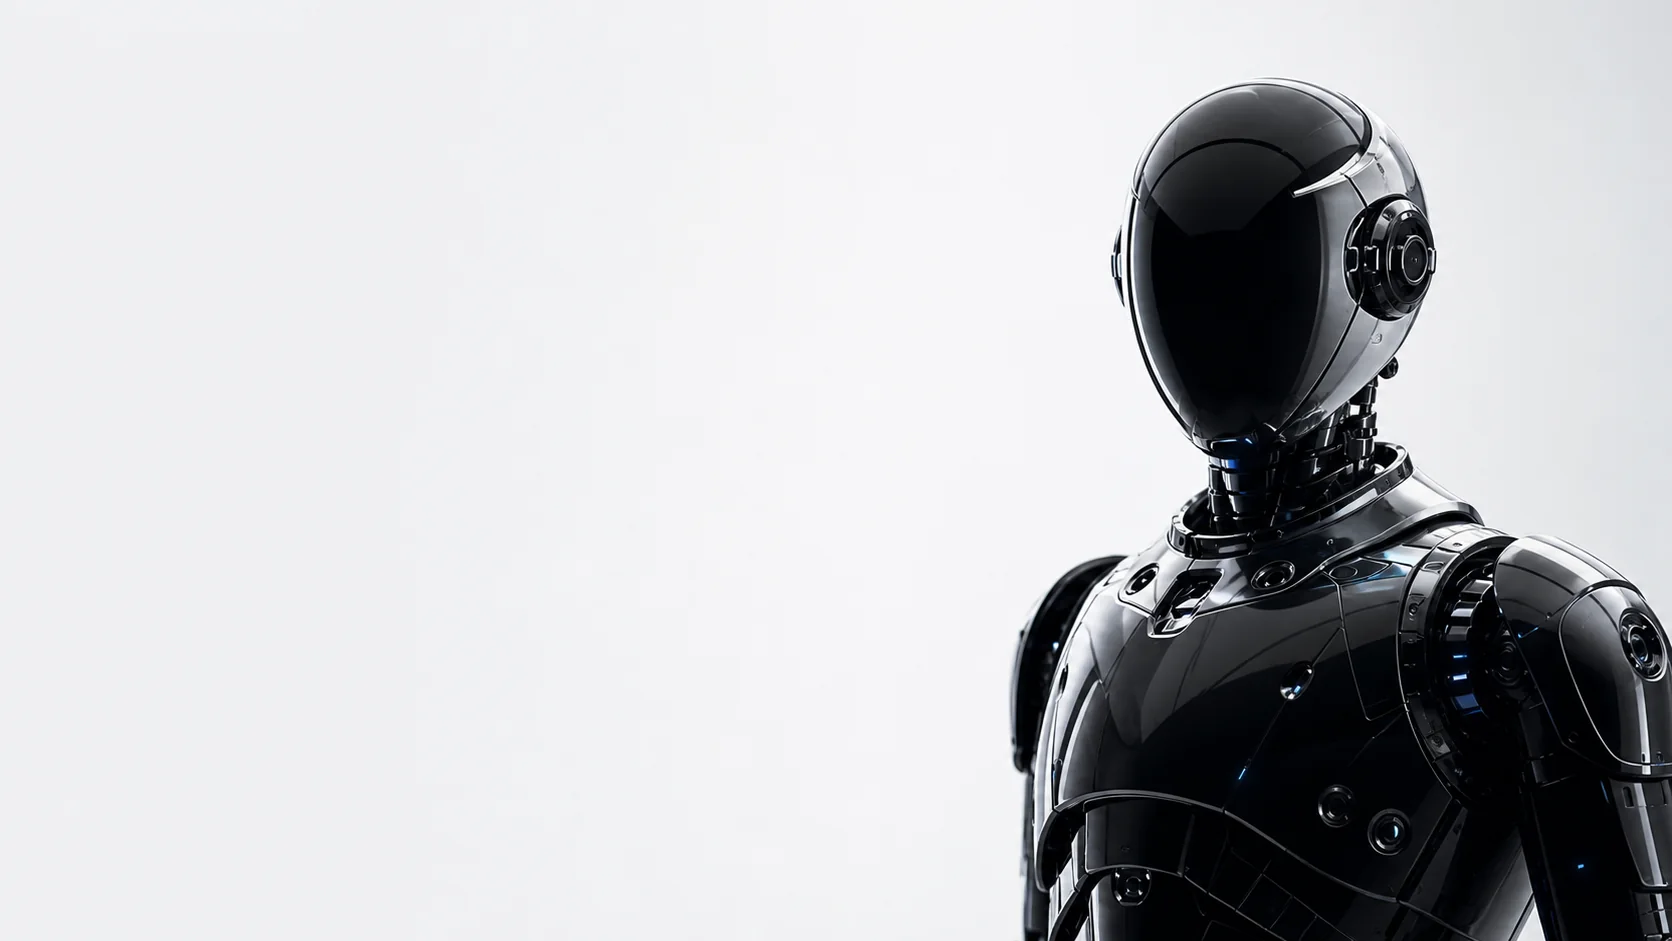
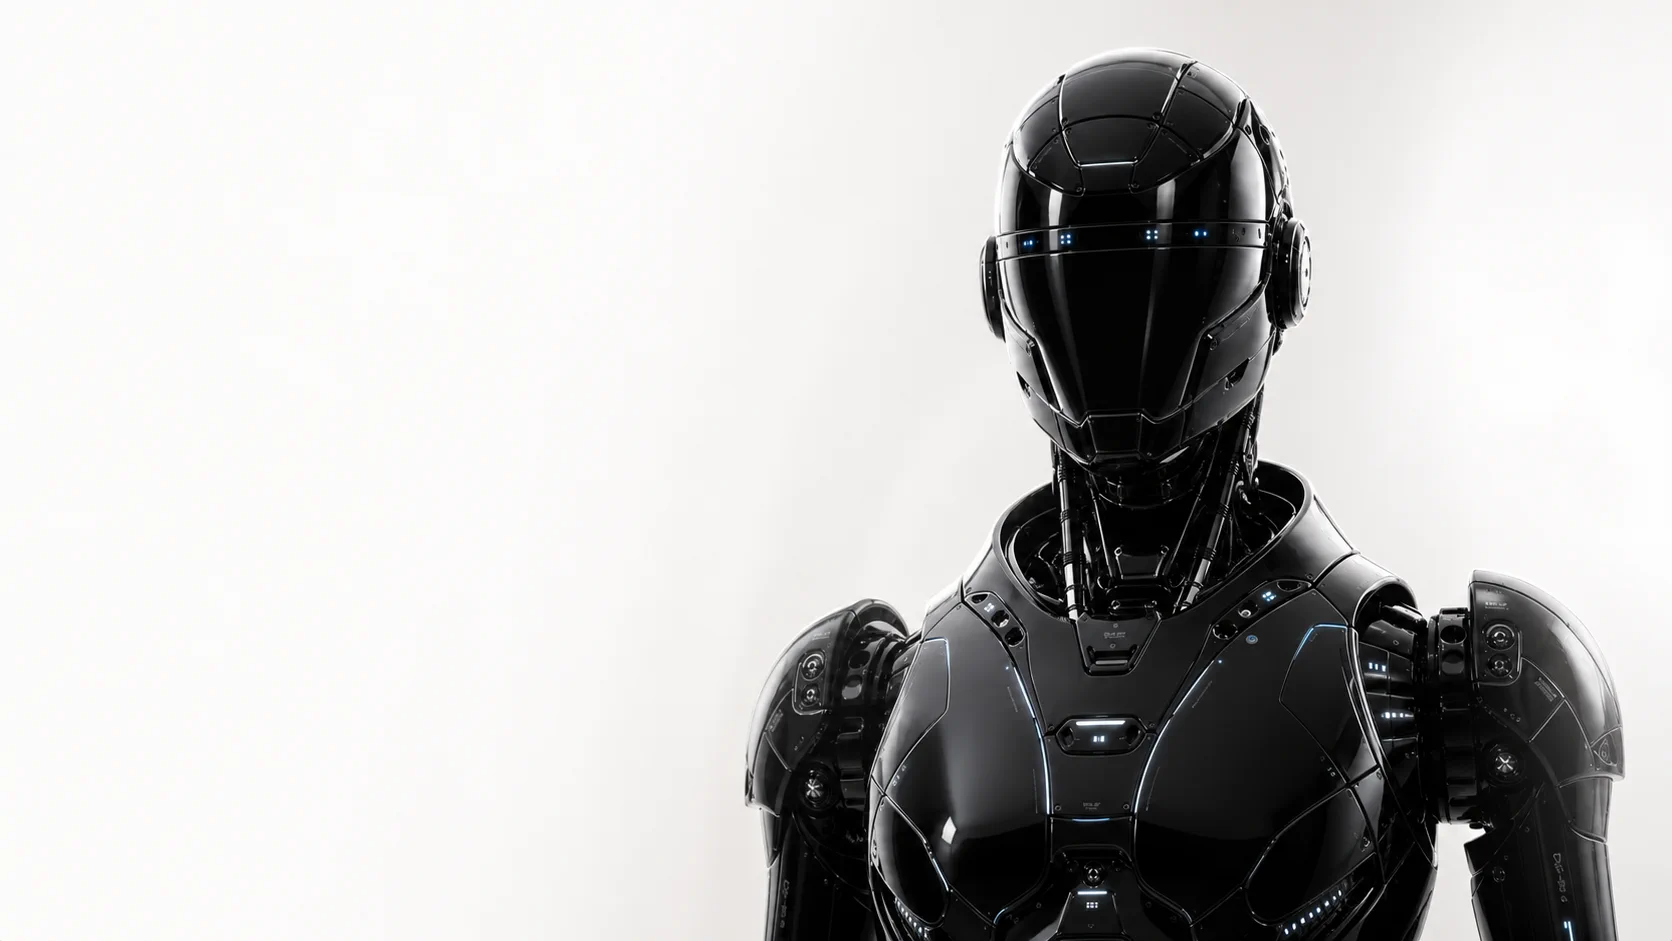
feat(ui): refine luxury robot visual language

Changed region(s): [[0.4354, 0.0, 1.0, 1.0]]

diff --git a/src/web-ui/src/app/scenes/agents/AgentsScene.minimal.scss b/src/web-ui/src/app/scenes/agents/AgentsScene.minimal.scss
@@ -7,31 +7,57 @@
     line-height: var(--workspace-line-height-control);
 
     .gallery-page-header {
-      min-height: 52px;
+      position: relative;
+      top: auto;
+      z-index: 0;
+      min-height: 208px;
+      align-items: flex-start;
       flex-direction: row;
       flex-wrap: nowrap;
-      padding: var(--workspace-space-2) var(--workspace-space-4);
+      overflow: hidden;
+      margin-top: var(--workspace-space-3);
+      padding: var(--workspace-space-6);
+      border: 1px solid var(--workspace-border-subtle);
+      border-radius: var(--workspace-radius-panel);
+      background-color: var(--workspace-surface-panel);
+      background-image: url('/visuals/void-agents-hero.webp');
+      background-position: center;
+      background-repeat: no-repeat;
+      background-size: cover;
+      backdrop-filter: none;
+      -webkit-backdrop-filter: none;
     }
 
     .gallery-page-header__identity {
       display: flex;
-      align-items: center;
-      gap: var(--workspace-space-3);
+      flex-direction: column;
+      align-items: flex-start;
+      gap: var(--workspace-space-2);
       min-width: 0;
+      max-width: min(48%, 520px);
     }
 
     .gallery-page-header__title {
       flex: 0 0 auto;
       margin: 0;
+      color: var(--workspace-text-primary);
+      font-size: clamp(28px, 3.2vw, 42px);
+      font-weight: var(--workspace-font-weight-medium);
+      line-height: 1.05;
+      letter-spacing: -0.04em;
     }
 
     .gallery-page-header__subtitle {
-      display: none;
+      display: block;
+      max-width: 420px;
+      color: var(--workspace-text-secondary);
+      font-size: var(--workspace-font-size-label);
+      line-height: var(--workspace-line-height-control);
     }
 
     .gallery-page-header__extra {
       min-width: 0;
-      margin: 0;
+      margin-top: var(--workspace-space-3);
     }
 
     .gallery-anchor-bar {
@@ -56,7 +82,9 @@
     }
 
     .gallery-page-header__actions {
-      position: relative;
+      position: absolute;
+      top: var(--workspace-space-3);
+      right: var(--workspace-space-3);
       flex: 0 0 var(--workspace-icon-target);
       width: var(--workspace-icon-target);
       height: var(--workspace-icon-target);
@@ -86,8 +114,8 @@
       gap: var(--workspace-space-1);
       padding: 0;
       color: var(--workspace-text-muted);
-      background: transparent;
-      border: 1px solid transparent;
+      background: var(--workspace-surface-panel);
+      border: 1px solid var(--workspace-border-subtle);
       border-radius: var(--workspace-radius-control);
       box-shadow: none;
       transition:
@@ -423,12 +451,16 @@
   @media (max-width: 900px) {
     .void-ui--minimal .void-agents-scene {
       .gallery-page-header {
-        min-height: 48px;
+        width: calc(100% - (2 * var(--workspace-space-3)));
+        min-height: 168px;
         gap: var(--workspace-space-2);
-        padding-inline: var(--workspace-space-3);
+        margin-inline: var(--workspace-space-3);
+        padding: var(--workspace-space-4);
+        background-position: 58% center;
       }
 
       .gallery-page-header__identity {
+        max-width: 56%;
         gap: var(--workspace-space-2);
       }
 
@@ -457,10 +489,17 @@
 
   @media (max-width: 560px) {
     .void-ui--minimal .void-agents-scene {
-      .gallery-page-header__title {
-        font-size: var(--workspace-font-size-label);
+      .gallery-page-header {
+        min-height: 124px;
+        background-position: 66% center;
       }
 
+      .gallery-page-header__title {
+        max-width: 180px;
+        font-size: 22px;
+      }
+
+      .gallery-page-header__subtitle,
       .gallery-anchor-bar {
         display: none;
       }

diff --git a/src/web-ui/src/app/scenes/skills/SkillsScene.minimal.scss b/src/web-ui/src/app/scenes/skills/SkillsScene.minimal.scss
@@ -6,14 +6,29 @@
     background: var(--workspace-surface-canvas);
 
     .skills-tabs-bar {
-      min-height: var(--workspace-topbar-height);
-      padding: 0 var(--workspace-space-3);
-      border-bottom: 1px solid var(--workspace-border-subtle);
-      background: var(--workspace-surface-panel);
+      position: relative;
+      min-height: 180px;
+      align-items: flex-end;
+      margin: var(--workspace-space-3) var(--workspace-space-3) 0;
+      padding: var(--workspace-space-3) var(--workspace-space-4);
+      overflow: hidden;
+      border: 1px solid var(--workspace-border-subtle);
+      border-radius: var(--workspace-radius-panel);
+      background-color: var(--workspace-surface-panel);
+      background-image: url('/visuals/void-skills-hero.webp');
+      background-position: center;
+      background-repeat: no-repeat;
+      background-size: cover;
     }
 
     .skills-tabs-bar__tabs {
+      position: relative;
+      z-index: 1;
       gap: 2px;
+      padding: 2px;
+      border: 1px solid var(--workspace-border-subtle);
+      border-radius: var(--workspace-radius-control);
+      background: var(--workspace-surface-panel);
     }
 
     .skills-tabs-bar__divider {
@@ -813,6 +828,11 @@
 
   @media (max-width: 900px) {
     .void-ui--minimal .void-skills-scene {
+      .skills-tabs-bar {
+        min-height: 132px;
+        background-position: 58% center;
+      }
+
       .skills-installed {
         flex-direction: column;
       }
@@ -864,6 +884,13 @@
 
   @media (max-width: 520px) {
     .void-ui--minimal .void-skills-scene {
+      .skills-tabs-bar {
+        min-height: 92px;
+        margin-inline: var(--workspace-space-2);
+        padding: var(--workspace-space-2);
+        background-position: 68% center;
+      }
+
       .skills-main__toolbar-search {
         flex-basis: 100%;
       }

diff --git a/src/web-ui/src/app/scenes/agents/AgentsScene.minimal.test.ts b/src/web-ui/src/app/scenes/agents/AgentsScene.minimal.test.ts
@@ -55,18 +55,21 @@ describe('Agents scene Minimal presentation contract', () => {
     expect(source).not.toMatch(/\n {2}\.(?:agent-card|core-agent-card|gallery-page-header)/);
   });
 
-  it('uses a single-line header with an icon-first expanding search', () => {
+  it('uses a responsive luxury hero with an icon-first expanding search', () => {
     expect(source).toMatch(
-      /\.gallery-page-header \{[\s\S]*?min-height: 52px;[\s\S]*?flex-direction: row;[\s\S]*?flex-wrap: nowrap;/,
+      /\.gallery-page-header \{[\s\S]*?min-height: 208px;[\s\S]*?background-image: url\('\/visuals\/void-agents-hero\.webp'\);/,
     );
     expect(source).toMatch(
-      /\.gallery-page-header__subtitle \{[\s\S]*?display: none;/,
+      /\.gallery-page-header__subtitle \{[\s\S]*?display: block;/,
     );
     expect(source).toMatch(
       /\.gallery-page-header__actions \.search \{[\s\S]*?width: var\(--workspace-icon-target\);/,
     );
     expect(source).toMatch(
       /&:focus-within \{[\s\S]*?width: 240px;/,
+    );
+    expect(source).toMatch(
+      /@media \(max-width: 560px\)[\s\S]*?\.gallery-page-header \{[\s\S]*?min-height: 124px;/,
     );
   });
 

diff --git a/src/web-ui/src/app/scenes/skills/SkillsScene.minimal.test.ts b/src/web-ui/src/app/scenes/skills/SkillsScene.minimal.test.ts
@@ -81,6 +81,18 @@ describe('Skills scene Minimal presentation contract', () => {
     );
   });
 
+  it('uses a real responsive product visual without adding runtime behavior', () => {
+    expect(source).toMatch(
+      /\.skills-tabs-bar \{[\s\S]*?min-height: 180px;[\s\S]*?background-image: url\('\/visuals\/void-skills-hero\.webp'\);/,
+    );
+    expect(source).toMatch(
+      /@media \(max-width: 900px\)[\s\S]*?\.skills-tabs-bar \{[\s\S]*?min-height: 132px;/,
+    );
+    expect(source).toMatch(
+      /@media \(max-width: 520px\)[\s\S]*?\.skills-tabs-bar \{[\s\S]*?min-height: 92px;/,
+    );
+  });
+
   it('removes decorative rendering cost while preserving semantic states', () => {
     expect(source).not.toMatch(/(?:linear|radial|conic)-gradient/i);
     expect(source).not.toMatch(/(?<![\w-])#[0-9a-f]{3,8}\b/i);
